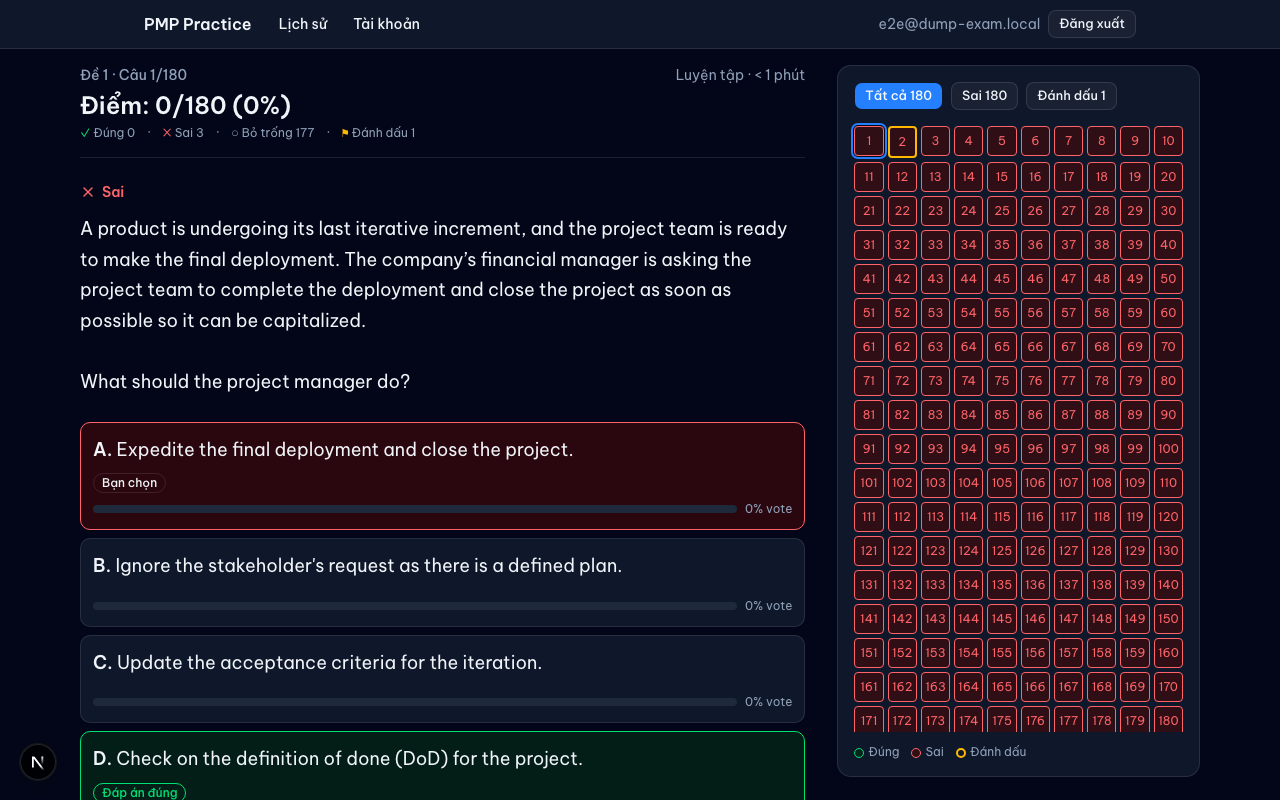
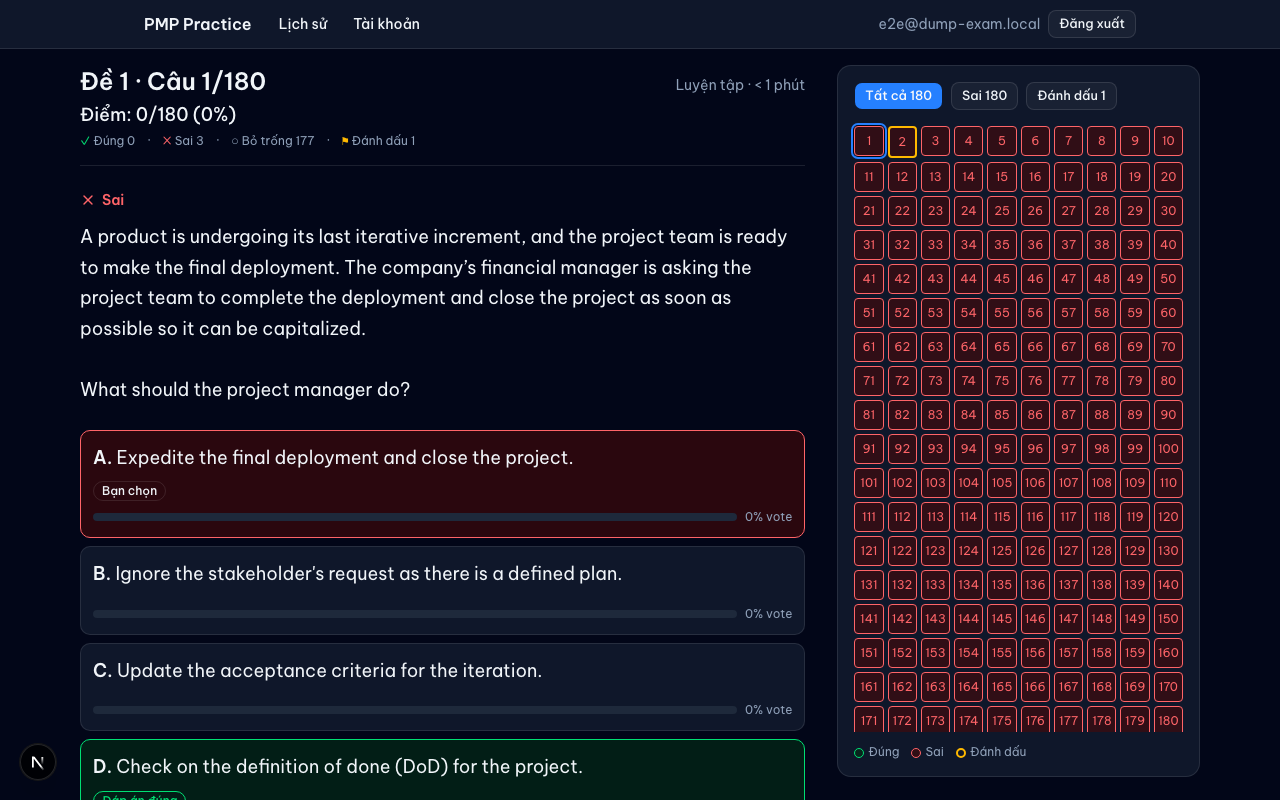
fix(attempt): make Đề · Câu the heading, Điểm/Đã làm secondary

diff --git a/app/attempts/[id]/question-layout.tsx b/app/attempts/[id]/question-layout.tsx
@@ -133,12 +133,12 @@ export function QuestionLayout(props: {
       <main className="mx-auto max-w-6xl p-4 pb-24 lg:grid lg:grid-cols-[minmax(0,2fr)_minmax(0,1fr)] lg:gap-8 lg:pb-8">
         <div>
           <header className="mb-6 border-b pb-4">
-            <div className="hidden items-baseline justify-between gap-3 text-sm text-muted-foreground lg:flex">
-              <p className="min-w-0 truncate font-medium tabular-nums">{heading}</p>
-              {props.meta && <p className="shrink-0">{props.meta}</p>}
+            <div className="hidden items-baseline justify-between gap-3 lg:flex">
+              <h1 className="min-w-0 truncate text-2xl font-semibold tabular-nums">{heading}</h1>
+              {props.meta && <p className="shrink-0 text-sm text-muted-foreground">{props.meta}</p>}
             </div>
             <div className="flex items-baseline justify-between gap-3 lg:mt-1">
-              <p className="whitespace-nowrap text-xl font-semibold tabular-nums lg:text-2xl">{props.figure}</p>
+              <p className="whitespace-nowrap text-lg font-medium tabular-nums">{props.figure}</p>
               {props.meta && <p className="shrink-0 text-sm text-muted-foreground lg:hidden">{props.meta}</p>}
             </div>
             <p className="mt-1 flex flex-wrap gap-x-3 gap-y-1 text-xs text-muted-foreground tabular-nums">{props.stats}</p>
